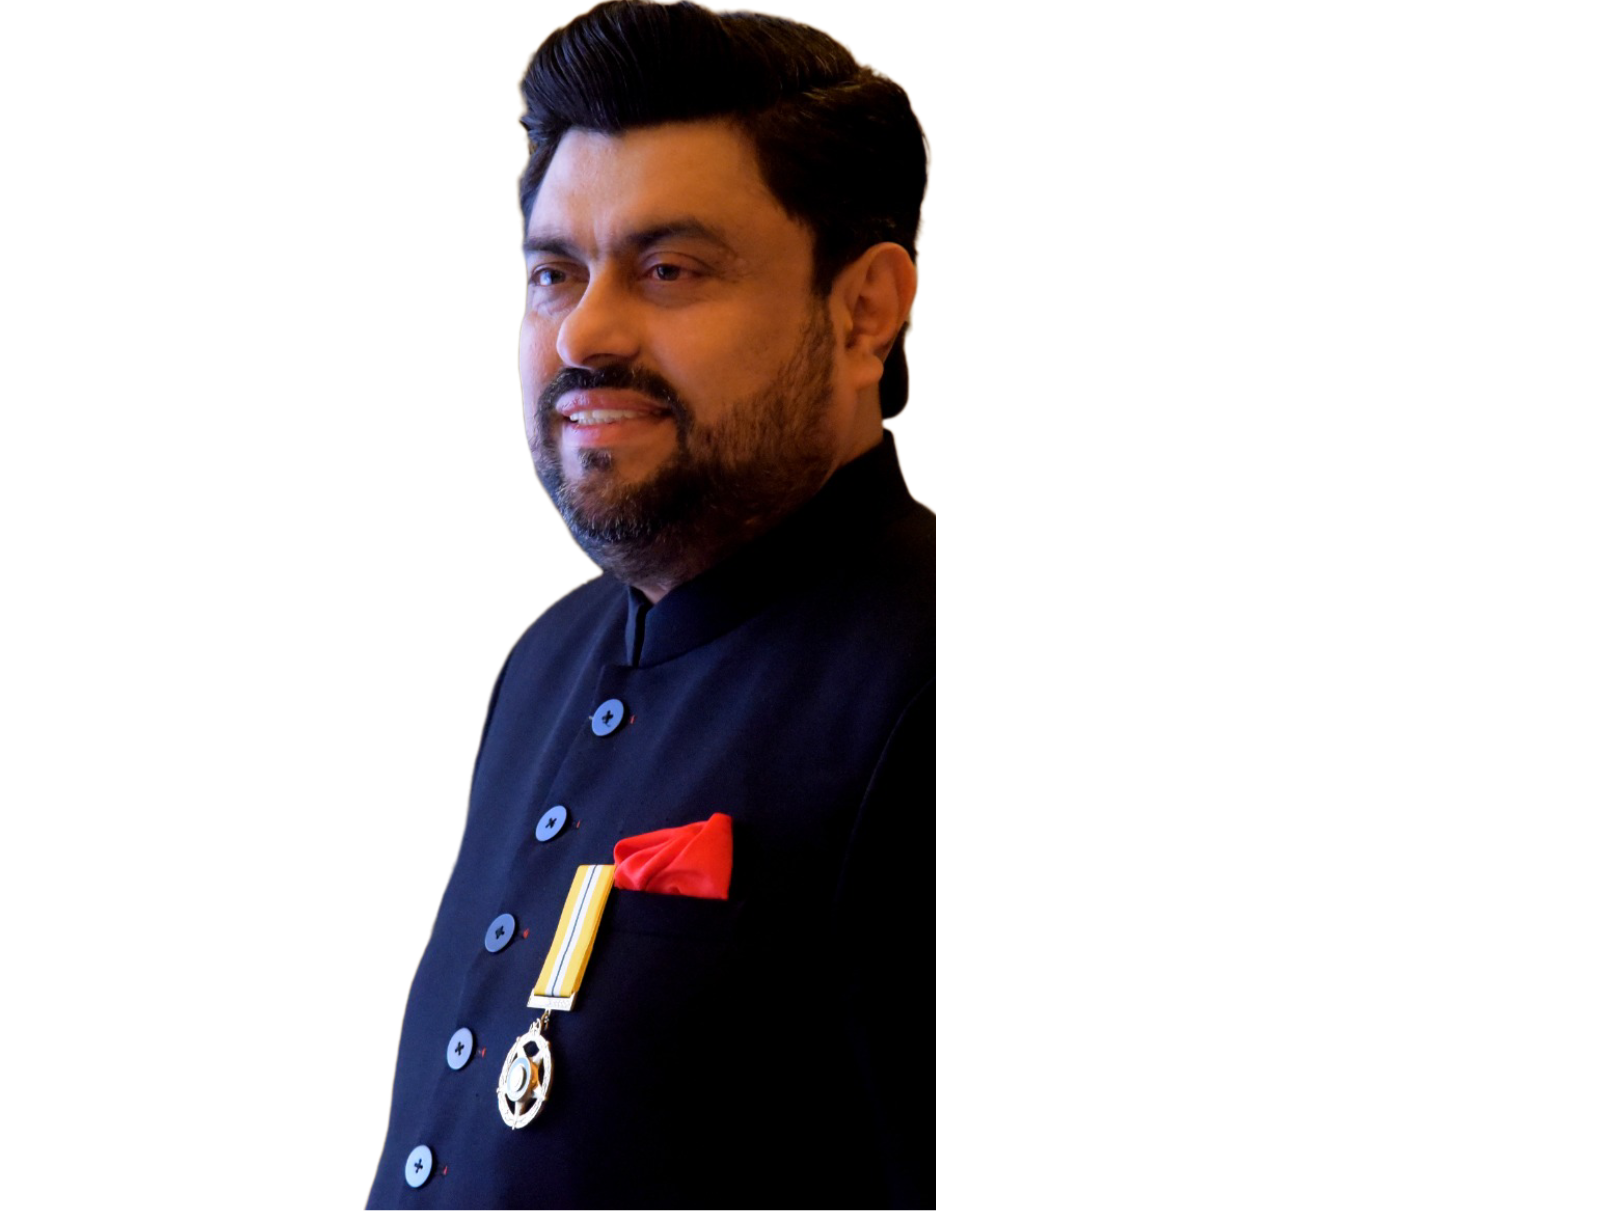
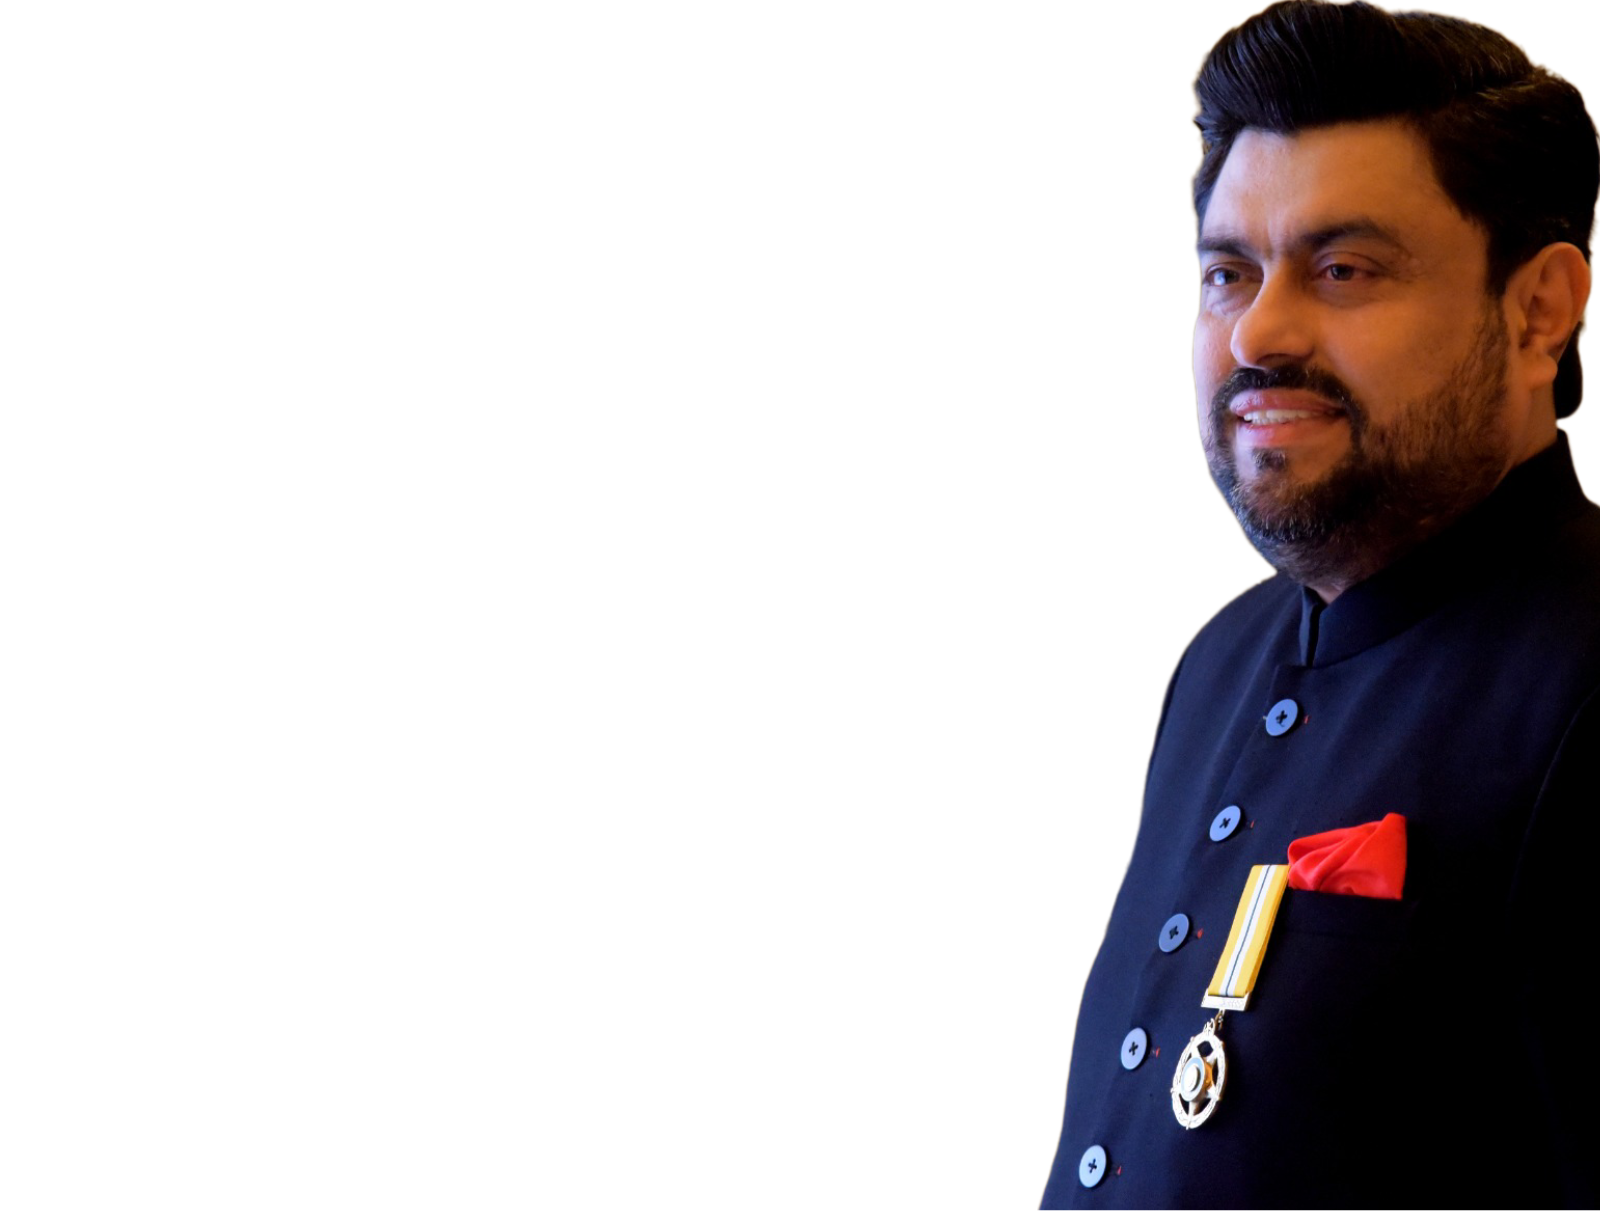
Add your commit message here

diff --git a/src/app/components/Header.tsx b/src/app/components/Header.tsx
@@ -1,26 +1,64 @@
-import React from 'react';
+"use client";
+import React, { useState } from 'react';
 import Link from 'next/link';
+import { GiHamburgerMenu } from 'react-icons/gi';
 
 const Header = () => {
+  const [menuOpen, setMenuOpen] = useState(false);
+
   return (
     <div>
-      <nav className="bg-sky-800 p-5 ">
+      <nav className="bg-sky-800 p-5">
         <div className="max-w-4xl mx-auto flex items-center justify-between">
           {/* Logo and Heading */}
           <div className="flex items-center space-x-4">
-            <h2 className="text-white font-semibold text-xl sm:text-2xl">
+            <h2 className="text-white font-semibold text-xl">
               Free Education Program on Latest Technologies
             </h2>
           </div>
 
-          {/* Navigation Links */}
-          <div className="flex flex-wrap space-x-8 sm:flex-row sm:space-x-8">
-            <Link href="/" className="text-white hover:text-gray-300 font-bold">Home</Link>
-            <Link href="/apply" className="text-white hover:text-gray-300 font-bold">Apply</Link>
-            <Link href="/jobs" className="text-white hover:text-gray-300 font-bold">Jobs</Link>
-            <Link href="/result" className="text-white hover:text-gray-300 font-bold">Result</Link>
+          {/* Desktop Navigation Links */}
+          <div className="hidden md:flex space-x-8">
+            <Link href="/" className="text-white hover:text-gray-300 font-bold">
+              Home
+            </Link>
+            <Link href="/apply" className="text-white hover:text-gray-300 font-bold">
+              Apply
+            </Link>
+            <Link href="/jobs" className="text-white hover:text-gray-300 font-bold">
+              Jobs
+            </Link>
+            <Link href="/result" className="text-white hover:text-gray-300 font-bold">
+              Result
+            </Link>
           </div>
+
+          {/* Menu Button */}
+          <button
+            className="md:hidden text-white text-2xl focus:outline-none"
+            onClick={() => setMenuOpen(!menuOpen)}
+          >
+            <GiHamburgerMenu />
+          </button>
         </div>
+
+        {/* Mobile Navigation Links */}
+        {menuOpen && (
+          <div className="md:hidden mt-4 flex flex-col space-y-4">
+            <Link href="/" className="text-white hover:text-gray-300 font-bold">
+              Home
+            </Link>
+            <Link href="/apply" className="text-white hover:text-gray-300 font-bold">
+              Apply
+            </Link>
+            <Link href="/jobs" className="text-white hover:text-gray-300 font-bold">
+              Jobs
+            </Link>
+            <Link href="/result" className="text-white hover:text-gray-300 font-bold">
+              Result
+            </Link>
+          </div>
+        )}
       </nav>
     </div>
   );

diff --git a/src/app/components/Hero.tsx b/src/app/components/Hero.tsx
@@ -6,7 +6,7 @@ const Hero = () => {
        <section className='Hero bg-white min-h-screen w-screen flex py-20 bg-cover bg-center overflow-hidden'>
       <div className="text-white text-left px-4 md:px-16">
 
-      <div className="absolute top-[30%] right-[-370] transform translate-y-[-25%] z-20 ">
+      <div className="absolute top-[30%] right-[-0] transform translate-y-[-25%] z-20 ">
       {/* Other website content */}
       <Image 
         src="/governer.png" 
@@ -23,7 +23,7 @@ const Hero = () => {
           alt="Logo"
           width={125}
           height={50}
-          className="absolute top-10 left-10 transform translate-y-[-25%] z-20 h-50 w-30 object-contain"
+          className="absolute top-10 left-10 transform translate-y-[-25%] z-20  lg:h-50 w-30  object-contain "
         />
         <h1 className='text-sky-800 text-bold text-7xl'>Governor Sindh</h1>
         <h4 className='text-sky-800 text-5xl'>Kamran Khan Tessori</h4>
